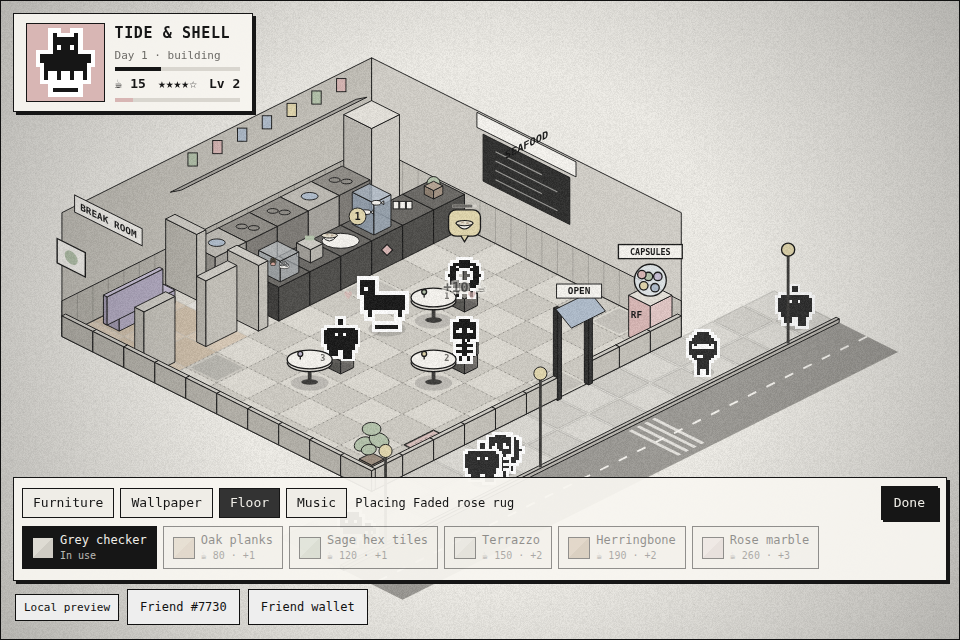
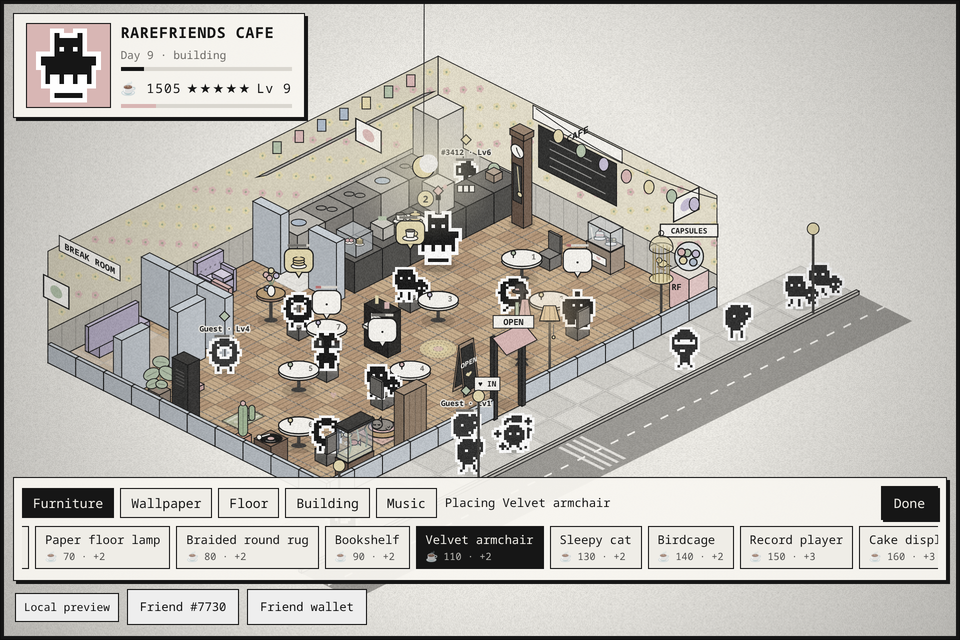
README, preview page and screenshots: buildings, upgrades, attributes, 16 tracks
New docs pictures (decorated long diner, building picker, shop upgrades, staff
attribute points, build mode, music) and updated rules. The build bar's
building tab explains that buildings change between days.

diff --git a/site/preview/index.html b/site/preview/index.html
@@ -169,8 +169,8 @@ footer .wrap { display: flex; flex-wrap: wrap; justify-content: space-between; g
       <small>Plays in the browser. You need a wallet on Robinhood mainnet holding a hardwired Rare Friends Generations NFT. Every RF purchase in the game is simulated; nothing is signed or spent.</small>
     </div>
     <figure class="photo">
-      <img src="img/cafe.png" width="960" height="640" alt="A greyscale isometric shop with a kitchen, break room and tables, facing a street where Rare Friends walk by">
-      <figcaption>TIDE &amp; SHELL · DAY 1</figcaption>
+      <img src="img/decor.png" width="960" height="640" alt="A decorated long diner with a kitchen, break room, tables, a piano, a fish tank and a birdcage, facing a street where Rare Friends walk by">
+      <figcaption>RAREFRIENDS CAFE · LONG DINER · DAY 9</figcaption>
     </figure>
   </div>
 
@@ -183,10 +183,10 @@ footer .wrap { display: flex; flex-wrap: wrap; justify-content: space-between; g
       <p class="sub">Everything here is built around the Friends in your wallet: their on-chain sprites, families and generations.</p>
       <div class="features">
         <article class="feature" style="--accent:var(--rose)"><b class="icon">★</b><h3>Your Friend runs it</h3><p>Your selected Generations NFT is the manager, drawn from its canonical on-chain sprite. Its family sets a perk: Hoverers float faster, Colossi calm guests, and so on.</p></article>
-        <article class="feature" style="--accent:var(--butter)"><b class="icon">♙</b><h3>Your Friends staff it</h3><p>Every other Friend you own can be a waiter, chef or promoter. Gen 1 is the top tier and Gen 6 the lowest; they level up as they work and need breaks when tired.</p></article>
+        <article class="feature" style="--accent:var(--butter)"><b class="icon">♙</b><h3>Your Friends staff it</h3><p>Every other Friend you own can be a waiter, chef or promoter. Gen 1 is the top tier and Gen 6 the lowest. Each level earns a point for speed, stamina or skill, and tired Friends need a break.</p></article>
         <article class="feature" style="--accent:var(--blue)"><b class="icon">⇆</b><h3>The street is alive</h3><p>Friends stroll past and some walk in. Promoters on the sidewalk, décor and a good rating bring in more. Guests leave back onto the street.</p></article>
-        <article class="feature" style="--accent:var(--sage)"><b class="icon">▦</b><h3>Make it yours</h3><p>Café, seafood, pastry, burgers or noodles. Place tables and décor on a tile grid, choose wallpaper and floors, and expand 2 × 2 at a time.</p></article>
-        <article class="feature" style="--accent:var(--lavender)"><b class="icon">♫</b><h3>Smooth jazz, cute sounds</h3><p>Six procedural jazz tracks, a coffee-ready chime, a door bell, and Friends who chirp when happy and sigh when tired.</p></article>
+        <article class="feature" style="--accent:var(--sage)"><b class="icon">▦</b><h3>Make it yours</h3><p>Café, seafood, pastry, burgers or noodles, in one of four buildings: corner café, long diner, townhouse or café with a parlour. Twenty kinds of furniture turn four ways; 12 wallpapers, 12 floors and eight upgrade tracks.</p></article>
+        <article class="feature" style="--accent:var(--lavender)"><b class="icon">♫</b><h3>Smooth jazz, cute sounds</h3><p>Sixteen procedural tracks (swing, bossa, jazz waltz and lo-fi), a coffee-ready chime, a door bell, and Friends who chirp when happy and sigh when tired.</p></article>
         <article class="feature" style="--accent:var(--rose)"><b class="icon">⧉</b><h3>Saves, shares</h3><p>Your shop saves per wallet. Each day draws a report card you can post to X with @RareFriendsNFT #RareFriends #RareFriendsCafe.</p></article>
       </div>
     </div>
@@ -198,11 +198,13 @@ footer .wrap { display: flex; flex-wrap: wrap; justify-content: space-between; g
       <h2>A look around the shop.</h2>
       <p class="sub">Captured from the game in an automated test with the SDK's mock wallet. Tap any picture to see it full size.</p>
       <div class="gallery">
+        <figure class="shot"><a href="img/buildings.png"><img src="img/buildings.png" width="960" height="640" loading="lazy" alt="Building picker with four floor plans"></a><figcaption><b>Four buildings</b>Kitchens in different spots, a long diner and a front parlour.</figcaption></figure>
+        <figure class="shot"><a href="img/upgrades.png"><img src="img/upgrades.png" width="960" height="640" loading="lazy" alt="Shop upgrades list"></a><figcaption><b>Eight upgrade tracks</b>Sign, shoes, cushions, tip jar, coffee, dishwasher, plating, tray.</figcaption></figure>
         <figure class="shot"><a href="img/shop-picker.png"><img src="img/shop-picker.png" width="960" height="640" loading="lazy" alt="Shop picker with five shop types"></a><figcaption><b>Choose your shop</b>Five shops, each with its own menu and kitchen station.</figcaption></figure>
         <figure class="shot"><a href="img/owned-chef.png"><img src="img/owned-chef.png" width="960" height="640" loading="lazy" alt="An owned Friend cooking in the kitchen room"></a><figcaption><b>Your Friend in the kitchen</b>Owned staff keep their canonical art and token number.</figcaption></figure>
-        <figure class="shot"><a href="img/staff.png"><img src="img/staff.png" width="960" height="640" loading="lazy" alt="Staff panel with generation tier, level and energy"></a><figcaption><b>Staff tiers and levels</b>Generation tier, worker level, XP and energy.</figcaption></figure>
-        <figure class="shot"><a href="img/build.png"><img src="img/build.png" width="960" height="640" loading="lazy" alt="Build mode with the tile grid"></a><figcaption><b>Build mode</b>Place, rotate, move and sell on the tile grid.</figcaption></figure>
-        <figure class="shot"><a href="img/music.png"><img src="img/music.png" width="960" height="640" loading="lazy" alt="Music track picker"></a><figcaption><b>Jazz track picker</b>Two tracks are unlocked by capsule exclusives.</figcaption></figure>
+        <figure class="shot"><a href="img/staff.png"><img src="img/staff.png" width="960" height="640" loading="lazy" alt="Staff panel with generation tier, level, energy and attribute points"></a><figcaption><b>Staff tiers and levels</b>Generation tier, worker level, energy and attribute points.</figcaption></figure>
+        <figure class="shot"><a href="img/build.png"><img src="img/build.png" width="960" height="640" loading="lazy" alt="Build mode with the furniture list"></a><figcaption><b>Build mode</b>Twenty pieces, each turning four ways. Move the capsule machine too.</figcaption></figure>
+        <figure class="shot"><a href="img/music.png"><img src="img/music.png" width="960" height="640" loading="lazy" alt="Music track picker"></a><figcaption><b>Sixteen tracks</b>Two are unlocked by capsule exclusives.</figcaption></figure>
         <figure class="shot"><a href="img/capsule-machine.png"><img src="img/capsule-machine.png" width="960" height="640" loading="lazy" alt="Rare Capsule Machine"></a><figcaption><b>Rare Capsule Machine</b>Buy ×1 or ×5 and turn the crank.</figcaption></figure>
         <figure class="shot"><a href="img/capsules-opened.png"><img src="img/capsules-opened.png" width="960" height="640" loading="lazy" alt="Five capsules opened"></a><figcaption><b>Keep or redeem</b>Recipes boost the shop or return RF.</figcaption></figure>
         <figure class="shot"><a href="img/collection.png"><img src="img/collection.png" width="960" height="640" loading="lazy" alt="Collection of RF exclusives"></a><figcaption><b>RF-exclusive collection</b>Eight collectibles, up to a golden statue of your Friend.</figcaption></figure>
@@ -219,12 +221,12 @@ footer .wrap { display: flex; flex-wrap: wrap; justify-content: space-between; g
       </figure>
       <div>
         <span class="tag">A day at the shop</span>
-        <h2>150 seconds of service.</h2>
+        <h2>Five minutes of service.</h2>
         <ol class="steps">
           <li><span><b>Open up.</b> Friends walk the street; some step in and sit down.</span></li>
           <li><span><b>Serve.</b> Tap a guest to take the order, tap the counter when the bell rings, and your Friend delivers.</span></li>
           <li><span><b>Look after your staff.</b> Tap a tired worker to send them to the break room for 15–30 seconds.</span></li>
-          <li><span><b>Grow.</b> Spend tips on dishes, staff slots, décor and expansions, then post your day card.</span></li>
+          <li><span><b>Grow.</b> Spend tips on dishes, upgrades, staff slots, décor, a new building and expansions, then post your day card.</span></li>
         </ol>
       </div>
     </div>

diff --git a/games/rarefriends-cafe/style.css b/games/rarefriends-cafe/style.css
@@ -102,10 +102,11 @@
 .cafe-buildings button[aria-checked="true"] { background: #fff; outline: 2px solid var(--ink); outline-offset: 1px; }
 .cafe-buildings small { display: block; color: var(--muted); font-size: 10px; }
 .cafe-buildings strong + small { display: inline; }
-.cafe-plan { flex: none; width: 90px; height: 52px; }
+.cafe-plan, .cafe-world canvas.cafe-plan { flex: none; width: 90px; height: 52px; cursor: inherit; }
+.cafe-build-note { flex: none; align-self: center; margin: 0; font-size: 11px; max-width: 130px; }
 .cafe-build-row .cafe-buildings { display: flex; margin: 0; }
 .cafe-build-row .cafe-buildings button { flex: none; width: 250px; }
-@media (max-width: 640px) { .cafe-buildings { grid-template-columns: 1fr; gap: 4px; } .cafe-buildings small { font-size: 8px; } .cafe-plan { width: 60px; height: 35px; } .cafe-build-row .cafe-buildings button { width: 190px; } }
+@media (max-width: 640px) { .cafe-buildings { grid-template-columns: 1fr; gap: 4px; } .cafe-buildings small { font-size: 8px; } .cafe-plan, .cafe-world canvas.cafe-plan { width: 60px; height: 35px; } .cafe-build-row .cafe-buildings button { width: 190px; } }
 .cafe-dishes { width: 120px; height: 40px; }
 
 /* Staff */
@@ -207,3 +208,4 @@
 .cafe-stats small { flex-basis: 100%; color: var(--muted); font-size: 10px; }
 .cafe-stats button { box-shadow: none; padding: 2px 7px; font-size: 11px; }
 .cafe-stats b { font-weight: normal; letter-spacing: 1px; }
+.cafe-buildings button[aria-checked="true"] small { color: inherit; opacity: .8; }

diff --git a/games/rarefriends-cafe/panels.tsx b/games/rarefriends-cafe/panels.tsx
@@ -222,7 +222,10 @@ export function BuildBar({ state, tool, onTool, onFinish, onDone, message, onPre
           <button type="button" key={item.kind} aria-pressed={tool.mode === "place" && tool.kind === item.kind} disabled={state.beans < item.cost} className={item.tier !== undefined ? "cafe-exclusive" : undefined}
             onClick={() => onTool({ ...tool, mode: "place", kind: item.kind })}><span>{item.name}<small>{item.tier !== undefined ? "RF exclusive · free" : `☕ ${item.cost}`}{item.ambience ? ` · +${item.ambience}` : ""}</small></span></button>)}
       </> : tool.tab === "walls" ? finishes("wallpaper", WALLPAPERS) : tool.tab === "floors" ? finishes("floor", FLOORS)
-        : tool.tab === "building" ? <BuildingPicker value={state.building} size={state.size} onChange={onBuilding} disabled={state.phase === "open"} />
+        : tool.tab === "building" ? <>
+          {state.phase === "open" && <p className="cafe-build-note">Change buildings between days. Misfit furniture is refunded.</p>}
+          <BuildingPicker value={state.building} size={state.size} onChange={onBuilding} disabled={state.phase === "open"} />
+        </>
         : <MusicControls prefs={state.prefs} collected={state.collection} onChange={onPrefs} />}
     </div>
   </div>;

diff --git a/games/rarefriends-cafe/README.md b/games/rarefriends-cafe/README.md
@@ -18,8 +18,8 @@ See [the root README](../../README.md#how-the-host-extends-the-sdk).
 | Tap the floor · the capsule machine | Walk there · open the **Rare Capsule Machine** |
 | WASD / arrow keys · E / Space / Enter | Walk tile by tile · act on whatever is next to you |
 | 1–9, 0 · C · X · T · B | Table 1–10 · pick up · clear task list · send the most tired Friend on a break · build mode |
-| **Build mode:** tap a tile, or arrows + Enter | Place the selected item. **Move**: tap an item, then a tile. **Sell**: tap an item. |
-| R · Delete · Esc | Rotate the chair · sell the item under the cursor · leave build mode |
+| **Build mode:** tap a tile, or arrows + Enter | Place the selected item. **Move**: tap an item (or the capsule machine), then a tile. **Sell**: tap an item. |
+| R · Shift+R · Delete · Esc | Turn the item a quarter clockwise · back · sell the item under the cursor · leave build mode |
 
 Tasks queue up with numbered markers. The shop pauses while a menu, build mode or a runtime confirmation is open.
 Sound starts on your first tap. The **♪** button mutes everything. Settings and Build → **Music** have the track
@@ -27,8 +27,18 @@ picker, music and effects toggles, and volume. **Reduce motion** is in Settings 
 
 ## The shop
 
-- **Plan:** the building is 10 × 10 tiles at first. The **kitchen** is a room along the back wall, closed off by the **counter**, which is its wall: guests order at the pass. A **break room** with a sofa sits behind it, joined to the kitchen by a door and to the dining room by its own door. The dining room is your tile grid. Outside the front wall run a **sidewalk and street**.
-- **Expansion:** grow the shop **2 × 2 at a time**: 10 → 12 → 14 → 16. Costs are 400 / 900 / 1,600 Beans at levels 3 / 5 / 7, and you can expand only between days. The kitchen counter lengthens and the camera zooms to fit. Furniture that would land on a reserved tile is refunded in full.
+- **Plan:** the **kitchen** is a room against a back wall, closed off by the **counter**, which is its wall: guests order at the pass. A **break room** with a sofa sits in the front-left corner behind its own door. Every other tile is the dining room, your grid. Outside the front wall run a **sidewalk and street**.
+- **Buildings:** pick one at setup; change it in Build → **Building** between days (furniture that no longer fits is refunded).
+
+| Building | Size at start | Layout |
+| --- | --- | --- |
+| Corner café | 10 × 10 | Kitchen along the left wall, with a door straight into the break room. |
+| Long diner | 10 × 14 | Four tiles longer on the street, door in the middle. A short kitchen opens into a dining nook; the break room is at the far end. |
+| Townhouse | 10 × 10 | Kitchen on the back wall beside the sign, across the room from the break room. |
+| Café with parlour | 10 × 12 | Like the corner café, two tiles deeper. A half wall with planters closes off a front parlour, reached through one opening by the door, far from the pass. |
+
+- **Expansion:** grow the shop **2 × 2 at a time** (10 → 12 → 14 → 16 wide). Costs are 400 / 900 / 1,600 Beans at levels 4 / 7 / 10, and you can expand only between days. The kitchen counter lengthens and the camera zooms to fit. Furniture that would land on a reserved tile is refunded in full.
+- **Capsule machine:** starts in the back corner by the window. In Build → **Move**, tap it, then a tile; **R** turns the side you use it from (the crank shows which).
 - **Shops:** choose one before your first day. All five play alike, with their own menu, dish art, kitchen station, sign and awning colour.
 
 | Shop | Menu (slots 1–7) · capsule specials |
@@ -41,22 +51,37 @@ picker, music and effects toggles, and volume. **Reduce motion** is in Settings 
 
 | Menu slot | 1 | 2 | 3 | 4 | 5 | 6 | 7 | Silver | Moonlight |
 | --- | --- | --- | --- | --- | --- | --- | --- | --- | --- |
-| Price (Beans) | 8 | 12 | 16 | 20 | 28 | 40 | 50 | 60 | 95 |
+| Price (Beans) | 5 | 7 | 9 | 12 | 16 | 23 | 29 | 35 | 55 |
 | Cook time | 3 s | 4 s | 5 s | 6 s | 8 s | 10 s | 9 s | 6 s | 11 s |
-| Unlock | start | start | Lv 2 · 60 | Lv 3 · 120 | Lv 4 · 200 | Lv 5 · 350 | Lv 6 · 500 | kept Silver Recipe | kept Moonlight Recipe |
+| Unlock | start | start | Lv 2 · 60 | Lv 3 · 120 | Lv 5 · 200 | Lv 7 · 350 | Lv 9 · 500 | kept Silver Recipe | kept Moonlight Recipe |
 
 ## A day of service
 
-- A day lasts **150 s** (08:00–20:00 on the shop clock). After closing, guests already inside finish, then a summary and day card appear.
+- A day lasts **5 minutes** (08:00–20:00 on the shop clock). After closing, guests already inside finish, then a summary and day card appear.
 - **The street:** a Friend walks by about every 1.6 s. At your door, each one steps in with a **34% base chance**. Ambience (+10% per level), rating (+8% per star above 3), the Hollow perk (×1.15) and promoters (+12% × promoter power each) raise it, capped at 90%. A table must be free. Guests leave back onto the street.
 - **Patience:** 18 s to order, 34 s for food (+6% per ambience level). If it runs out, the guest leaves unhappy and the rating drops.
-- **Payment** = price × (1 + tip). Tip = 30% × remaining patience + 3% per ambience level + House Secret bonus. Rating is a rolling average (5 happy, 4 slow, 1 left).
-- **Shop XP:** +1 per guest served, +1 if happy, +2 for a Genesis VIP. Levels unlock dishes, more tables (3 + level, up to 16), staff slots and expansions.
-- **Kitchen:** 1 dish at a time, plus 1 per working chef. Station levels (70 / 150 / 260 / 420 / 650 Beans) cut cook time 12% each. You carry 2 dishes (3 with the Cellular perk).
+- **Payment** = price × (1 + tip), with Fancy plating raising the price. Tip = 20% × remaining patience + 2% per ambience level + House Secret bonus + tip jar + the serving waiter's skill. Rating is a rolling average (5 happy, 4 slow, 1 left).
+- **Shop XP:** +1 per guest served, +1 if happy, +2 for a Genesis VIP. **15 levels** (15 / 40 / 75 / 120 / 180 / 255 / 345 / 450 / 575 / 720 / 885 / 1,070 / 1,275 / 1,500 XP). Levels unlock dishes, more tables (3 + level, up to 16), staff slots, expansions and upgrades.
+- **Kitchen:** 1 dish at a time, plus 1 per working chef. Station levels (70 / 150 / 260 / 420 / 650 Beans) cut cook time 12% each. A chef carries each cooked dish from the stove to the pass; with no chef, dishes appear on the pass. You carry 2 dishes (3 with the Cellular perk, +1 with the big tray).
+
+## Shop upgrades
+
+Bought one level at a time in Upgrades → **Shop**:
+
+| Upgrade | Per level | Beans (café level) |
+| --- | --- | --- |
+| Window sign | +6% walk-ins | 90 (2) · 240 (5) · 520 (8) |
+| Running shoes | you walk 8% faster | 110 (2) · 300 (6) |
+| Comfy cushions | guests wait 8% longer | 140 (3) · 340 (6) · 700 (9) |
+| Tip jar | +5% tips | 160 (3) · 380 (6) · 780 (10) |
+| Break-room coffee | staff tire 12% slower, rest 20% faster | 200 (4) · 480 (8) |
+| Dishwasher | guests finish eating 20% sooner | 240 (4) · 560 (8) |
+| Fancy plating | dishes sell for 6% more | 300 (5) · 700 (9) · 1,400 (12) |
+| Big serving tray | you carry one more dish | 1,000 (11) |
 
 ## Staff
 
-- **Slots:** start with 1. More cost 120 / 280 / 520 / 900 Beans at levels 2 / 3 / 5 / 7, up to **5**. Fill each slot with **one of your own Friends** (other eligible Generations NFTs in the wallet, shown with their canonical sprite and token number) or one of six guest applicants.
+- **Slots:** start with 1. More cost 120 / 280 / 520 / 900 Beans at levels 2 / 4 / 6 / 9, up to **5**. Fill each slot with **one of your own Friends** (other eligible Generations NFTs in the wallet, shown with their canonical sprite and token number) or one of six guest applicants.
 - **Roles:** **Waiters** take orders and deliver on their own. **Chefs** work the kitchen: each adds a cooking slot and cuts cook time by 6% × (power − 0.5), with a 35% cap. **Promoters** stand on the sidewalk and pull passers-by in.
 - **Generation tier** (from the Friend's on-chain `generation`; Gen 1 is the highest, Gen 6 the lowest):
 
@@ -65,20 +90,29 @@ picker, music and effects toggles, and volume. **Reduce motion** is in Settings 
 | Power | ×1.30 | ×1.25 | ×1.20 | ×1.15 | ×1.10 | ×1.05 | ×1.00 |
 
 - **Worker levels 1–10:** +1 worker XP per order taken, dish served, dish cooked or guest brought in. Levels need 10 / 25 / 45 / 70 / 100 / 140 / 190 / 250 / 320 XP. Each level adds 4% power and 4% fatigue relief. Power scales walking speed, chef speed and promoter pull. Waiters carry 2 dishes at Gen 1–3 or worker level 5+.
+- **Attribute points:** each worker level past the first earns a point to spend in the Staff tab, up to 5 per attribute. **Speed** +6% walking speed; **Stamina** tires 8% slower; **Skill** depends on the role: chefs cook 4% faster, waiters earn +3% tips on dishes they serve, promoters pull 8% harder. Points stay with the Friend when their role changes.
 - **Fatigue:** +4 per waiter task, +3 per dish cooked, +0.3 per second on the sidewalk. At 70 a worker is **tired** (15% slower, *zzz* bubble); at 100 they are **exhausted** and stop. Tap them (or press T) and they walk to the break room for **15 s rested … 30 s exhausted** (15 + 15 × fatigue ÷ 100), then return with full energy. Everyone starts each day rested.
 
 ## Build mode
 
 | Item | Cost | Ambience | Notes |
 | --- | --- | --- | --- |
-| Table & chair | 60 | – | Seats one guest; the chair sits behind the table; R flips it. |
-| Potted monstera · Faded rose rug | 35 · 45 | +1 · +1 | The rug is walkable |
-| Paper floor lamp · Bookshelf | 70 · 90 | +2 · +2 | |
-| Record player · Upright piano | 150 · 260 | +3 · +4 | |
+| Table & chair | 60 | – | Seats one guest; the chair can go on any side of the table. |
+| Little cactus · Potted monstera · Coat rack | 25 · 35 · 40 | +1 each | |
+| A-frame menu board · Flower stand | 55 · 65 | +1 each | The board reads MENU on the front, OPEN on the back |
+| Faded rose rug · Sage runner · Braided round rug | 45 · 55 · 80 | +1 · +1 · +2 | Rugs are walkable; furniture can stand on them |
+| Paper floor lamp · Bookshelf · Velvet armchair | 70 · 90 · 110 | +2 each | |
+| Sleepy cat · Birdcage | 130 · 140 | +2 each | A cat asleep in its basket; a canary that hops on its perch |
+| Record player · Cake display · Lavender loveseat | 150 · 160 · 180 | +3 each | |
+| Grandfather clock · Arcade cabinet | 200 · 220 | +3 each | Swinging pendulum; a blinking screen |
+| Fish tank · Upright piano | 240 · 260 | +4 each | |
 | **RF exclusives** (from capsules) | free | +3 to +8 | Each placed once; see below |
 
+- **Rotation:** every item turns four ways (**R**, **Shift+R** back, or the Rotate button, whose arrow shows the facing). Fronts, backs and sides are drawn: turn a bookshelf to the wall and you see its back.
+
 - Move is free and Sell refunds 50%. You always keep one table, and a table with a guest can't move. A placement is refused if it would stop guests reaching any chair, or staff reaching any table, the counter, the capsule machine or the break room.
-- **Wallpapers:** plain, faded stripes 60 (+1), polka dots 90 (+1), white brick 140 (+2), wood panelling 180 (+2), dusty-blue damask 240 (+3). **Floors:** grey checker, oak planks 80 (+1), sage hex 120 (+1), terrazzo 150 (+2), herringbone 190 (+2), rose marble 260 (+3). Once bought, a design is free to switch back to.
+- **Wallpapers (12):** plain, faded stripes 60 (+1), sage gingham 70 (+1), polka dots 90 (+1), subway tile 110 (+1), white brick 140 (+2), butter florals 150 (+2), wood panelling 180 (+2), lavender chevron 200 (+2), dusty-blue damask 240 (+3), rose scallops 280 (+3), starry night 340 (+4).
+- **Floors (12):** grey checker, strawberry checker 70 (+1), oak planks 80 (+1), tatami mats 110 (+1), sage hex 120 (+1), slate flagstones 140 (+2), terrazzo 150 (+2), parquet squares 170 (+2), herringbone 190 (+2), lavender carpet 210 (+2), rose marble 260 (+3), blue mosaic 300 (+4). Once bought, a design is free to switch back to.
 - **Ambience level** 1–5 at 2 / 5 / 9 / 14 / 20 points. It raises tips, patience and walk-ins, and hangs framed art, paper lanterns (level 3) and a moon chandelier (level 5).
 - **Music** tab: pick the jazz track and set volume (see Audio).
 
@@ -115,19 +149,20 @@ picture** and **Save picture** are also offered. The post links to https://raref
 ## Saving
 
 Progress saves automatically every few seconds and at closing, **per wallet address** on this device. The save covers
-shop, day, Beans, levels, rating, dishes, station, size, furniture, designs, staff (with worker XP), collectibles and
-audio preferences. A closed day resumes at the next day. Saves are validated on load; older saves migrate, and
+shop, day, Beans, levels, rating, dishes, station, size, building, furniture (with facing), the capsule machine's spot,
+designs, upgrades, staff (with worker XP and attribute points), collectibles and audio preferences. A closed day resumes at the next day. Saves are validated on load; older saves migrate, and
 furniture that no longer fits is refunded.
 
 ## Audio
 
 All music and sound effects are synthesized with WebAudio in the sandbox; there are no audio files.
-- **Tracks:** *Café au Lait* (warm swing), *Rainy Window* (slow minor), *Sunday Stroll* (bright swing), *Street Bossa* (bossa nova), *Neon Nights* (Chrome Jukebox) and *Midnight Moon* (Moon Telescope). Each has electric-piano comping, a walking bass, brushed drums and vibraphone phrases.
+- **Tracks (16):** *Café au Lait* (warm swing), *Rainy Window* (slow minor), *Sunday Stroll* (bright swing), *Street Bossa* (bossa nova), *Neon Nights* (Chrome Jukebox), *Midnight Moon* (Moon Telescope), *Morning Pour-Over* (lo-fi), *Sugar Waltz* (jazz waltz), *Tide Pool* (seaside bossa), *Pastry Case Blues* (12-bar shuffle), *Lantern Glow* (lo-fi), *Rooftop Bounce* (up-tempo bebop), *Paper Cranes* (gentle waltz), *Night Bus Home* (minor lo-fi), *Samba de Café* (quick bossa) and *Last Order* (closing-time ballad).
+- **Styles:** swing tracks walk the bass under electric-piano comping and brushed drums; bossa plays a dotted bass with rim clave; waltzes are in 3/4; lo-fi holds one chord a bar over a lazy kick and snare with a little vinyl crackle. Vibraphone phrases drift over all of them.
 - **Mix:** a gentle compressor keeps the mix loud enough for laptop and phone speakers without clipping. Audio starts on any tap, click or key; on iPhone it plays as media, so the ringer switch doesn't mute it (iOS 17+).
 - **Sound effects:** a station-specific ready sound (espresso steam, bubbling tank, oven ding, grill sizzle, steamer) with a bell; a door bell for walk-ins; guest chirps and coins when they pay; grumbles when they leave; staff sighs when tired and trills when rested; melodies for level-ups and closing; thunks, cranks and pops for building and capsules. UI cues come from the FriendSDK sound kit.
 
 ## Art and credits
 
-- Scenery, rooms, street, furniture, RF exclusives, 23 dish icon shapes, wallpapers and floors are canvas code in this directory. There are no image files.
+- Scenery, the four buildings, street, furniture (drawn in four facings), RF exclusives, 23 dish icon shapes, wallpapers and floors are canvas code in this directory. There are no image files.
 - The manager and your owned staff use their **canonical Generations sprites** (the SDK's `createFriendReader`). Regulars #7730 and #3412 use canonical frames from FriendSDK v0.1.2 `examples/fishing/sample-sprites.ts`.
 - Guest Friends are original procedural 16 × 16 one-bit masks, one archetype per family. Rare Friends artwork is used under FriendSDK [NOTICE.md](https://github.com/spokesz/friendsdk/blob/v0.1.2/NOTICE.md).

diff --git a/README.md b/README.md
@@ -5,13 +5,14 @@
 **▶ Play: https://m4s4t0-v01d.github.io/rarefriends-cafe/** · **Preview page: https://m4s4t0-v01d.github.io/rarefriends-cafe/preview/**
 *(You need a browser wallet on Robinhood mainnet holding a hardwired Rare Friends Generations NFT.)*
 
-![RareFriends Cafe: a greyscale isometric shop on a street, with Rare Friends walking in](docs/cafe.png)
+![RareFriends Cafe: a decorated long diner on a greyscale street, with Rare Friends walking in](docs/decor.png)
 
 - **Your Friend is the manager.** The Friend you select appears with its canonical on-chain sprite and a gameplay perk from its Generations family.
-- **Your other Friends are the staff.** Every other eligible Friend in your wallet can work as a waiter, chef or promoter. Their tier comes from their on-chain generation (Gen 1 is best, Gen 6 the lowest), and they level up as they work. When they get tired, you send them to the break room.
+- **Your other Friends are the staff.** Every other eligible Friend in your wallet can work as a waiter, chef or promoter. Their tier comes from their on-chain generation (Gen 1 is best, Gen 6 the lowest), and they level up as they work, earning a point per level for **speed, stamina or skill**. Chefs carry each dish from the stove to the pass. When staff get tired, you send them to the break room.
 - **The street is alive.** Friends stroll past, and some walk in through your door. Promoters on the sidewalk, ambience and your rating bring in more.
-- **Make it yours.** Pick a café, seafood restaurant, pastry shop, burger diner or Asian noodle house. Arrange tables and décor on the tile grid, choose from 6 wallpapers and 6 floors, and expand 2 × 2 at a time up to 16 × 16.
-- **It sounds alive too.** Six procedural smooth-jazz tracks (pick them in build mode), a coffee-ready chime, a door bell, and Friends who chirp, sigh and yawn.
+- **Make it yours.** Pick a café, seafood restaurant, pastry shop, burger diner or Asian noodle house, and a **building**: a corner café, a long diner, a townhouse with its kitchen on the back wall, or a café with a front parlour. Arrange 20 kinds of furniture and décor on the tile grid, **turning each piece four ways**. Move the capsule machine, choose from 12 wallpapers and 12 floors, and expand 2 × 2 at a time.
+- **A slow, cosy climb.** Five-minute days, 15 café levels, and eight upgrade tracks to spend Beans on: window sign, running shoes, comfy cushions, tip jar, break-room coffee, dishwasher, fancy plating and a big serving tray.
+- **It sounds alive too.** Sixteen procedural jazz tracks (swing, bossa, jazz waltz and lo-fi; pick them in build mode), a coffee-ready chime, a door bell, and Friends who chirp, sigh and yawn.
 - **$RAREFRIENDS capsules.** Rare Capsules cost (simulated) RF. Each one holds a secret recipe, which you keep for a boost or redeem for RF, plus one of 8 RF-exclusive collectibles for your shop.
 - **Progress saves per wallet**, and each day's report card is ready to **post on X**, tagged *@RareFriendsNFT #RareFriends #RareFriendsCafe*.
 
@@ -25,11 +26,13 @@
 
 ## Screenshots
 
-| Choose your shop | Your owned Friend cooking | Staff: tiers, levels, energy |
+| Choose your shop | Four buildings | Staff: tiers, levels, attribute points |
 | --- | --- | --- |
-| ![Shop picker](docs/shop-picker.png) | ![Owned Friend #3412 in the kitchen](docs/owned-chef.png) | ![Staff panel](docs/staff.png) |
-| **Build mode on the tile grid** | **Jazz track picker** | **Rare Capsule Machine** |
-| ![Build mode](docs/build.png) | ![Music tab](docs/music.png) | ![Capsule machine](docs/capsule-machine.png) |
+| ![Shop picker](docs/shop-picker.png) | ![Building picker in build mode](docs/buildings.png) | ![Staff panel](docs/staff.png) |
+| **Build mode: 20 pieces, four ways each** | **Eight upgrade tracks** | **Sixteen jazz tracks** |
+| ![Build mode](docs/build.png) | ![Shop upgrades](docs/upgrades.png) | ![Music tab](docs/music.png) |
+| **Your owned Friend cooking** | **Rare Capsule Machine** | |
+| ![Owned Friend #3412 in the kitchen](docs/owned-chef.png) | ![Capsule machine](docs/capsule-machine.png) | |
 | **Five capsules opened** | **RF-exclusive collection** | **Saved per wallet** |
 | ![Capsule results](docs/capsules-opened.png) | ![Collection](docs/collection.png) | ![Welcome back](docs/welcome-back.png) |
 
@@ -41,9 +44,9 @@
 
 1. **Choose your shop** and open for the day. Friends walk the street; some come in and sit down.
 2. **Tap a guest** (or press their table number) to take the order. When the counter bell rings, **tap the counter**, and your manager picks up and delivers.
-3. Fast service earns **tips in Beans**. Spend them on dishes, kitchen upgrades, staff slots, furniture, designs and expansions.
-4. **Staff:** give your Friends a role. **Waiters** serve, **chefs** cook in the kitchen, and **promoters** work the sidewalk. They level up as they work. When one shows a *zzz*, **tap them** (or press **T**) to send them to the break room for 15–30 s.
-5. **Build (B):** place, rotate, move and sell furniture, pick wallpaper, floors and music, and place your RF exclusives.
+3. Fast service earns **tips in Beans**. Spend them on dishes, kitchen upgrades, the eight shop upgrades, staff slots, furniture, designs and expansions.
+4. **Staff:** give your Friends a role. **Waiters** serve, **chefs** cook in the kitchen, and **promoters** work the sidewalk. They level up as they work; spend each level's point on speed, stamina or skill. When one shows a *zzz*, **tap them** (or press **T**) to send them to the break room for 15–30 s.
+5. **Build (B):** place, move and sell furniture and turn it four ways (**R**, **Shift+R** back). Move the capsule machine, pick wallpaper, floors, music and your building (between days), and place your RF exclusives.
 6. At closing you get a **day summary** and **day card**: **Post to X**, **Copy picture** or **Save picture**. Your shop saves for your wallet.
 7. **Rare Capsule Machine:** buy ×1 or ×5 and turn the crank. You get recipes (kept for bonuses or redeemed for RF) and exclusives such as the Chrome Jukebox, which unlocks a jazz track, or the Golden Friend Statue of your manager.
 
@@ -98,9 +101,11 @@ each push to `main`.
 
 ```sh
 npm run typecheck      # tsc strict (game + host)
-npm test               # 28 engine tests: plan and routing, street walk-ins, service loop, day cycle, placement rules,
-                       # expansions, generation tiers, worker XP, roles, fatigue and breaks, saves and migration,
-                       # capsule collectibles, music unlocks, X post text, economy table
+npm test               # 37 engine tests: plan and routing (all four buildings at every size), street walk-ins,
+                       # service loop, day cycle, placement and four-way rotation, the moving capsule machine,
+                       # chefs carrying dishes, expansions, building switches, upgrades, generation tiers, worker XP
+                       # and attribute points, roles, fatigue and breaks, saves and migration, capsule collectibles,
+                       # music unlocks, X post text, the slower economy and the capsule economy table
 npm run check          # friendsdk check
 npm run test:browser   # SDK mock-wallet browser runs:
                        #  • 960 px: shop pick, keyboard service, build (pointer + keyboard), floor + music tabs, staff,
